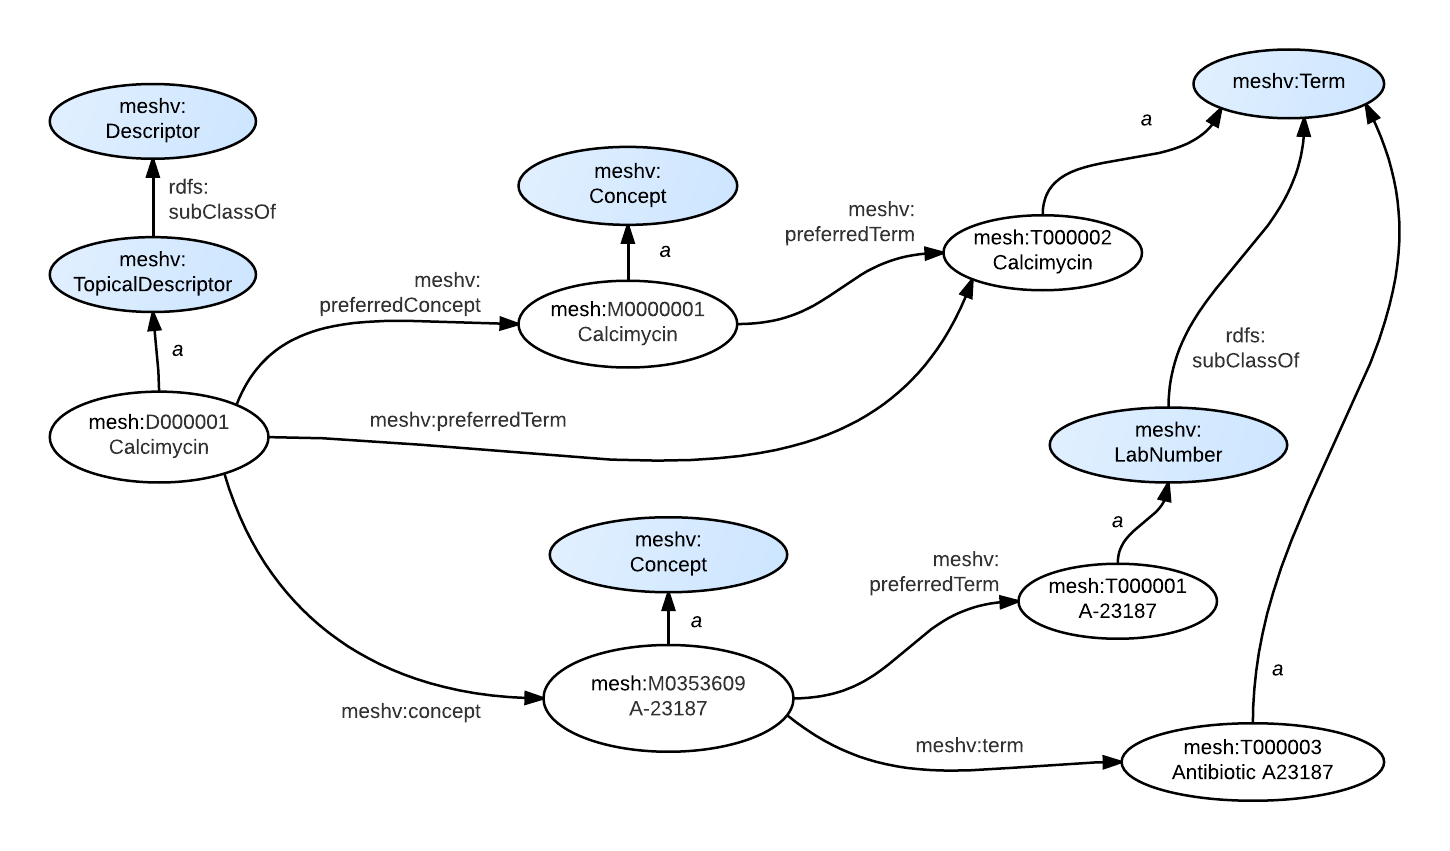
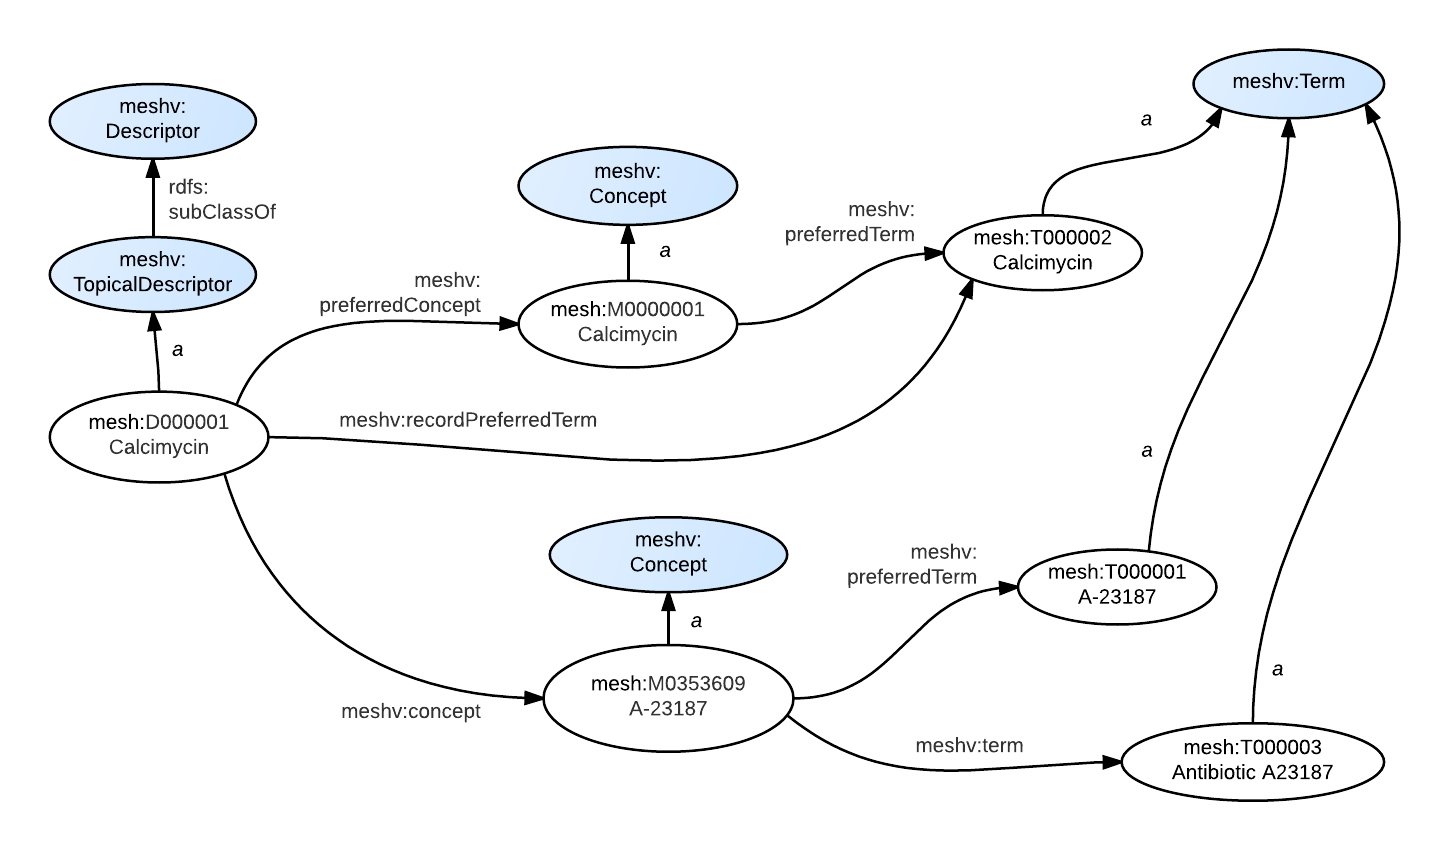
Working on terms - split into two pages

diff --git a/terms2.md b/terms2.md
@@ -15,9 +15,6 @@ Depicted in these graphs:
 
 ![](images/TermModel-2.png){: class="rdf-graph"}
 
-![](images/TermModel.png){: class="rdf-graph"}
-
-
 ### SPARQL
 
 [Note that the following should be possible using the short `CONSTRUCT WHERE` form,
@@ -33,48 +30,109 @@ PREFIX meshv: <http://id.nlm.nih.gov/mesh/vocab#>
 
 construct {
     mesh:D000001 a ?descClass .
+    ?descClass rdfs:subClassOf ?superClass .
 
     mesh:D000001 meshv:preferredConcept ?prefCon .
     ?prefCon a ?prefConClass .
-    mesh:D000001 meshv:preferredTerm ?prefTerm .
-    ?prefTerm a ?prefTermClass .
+
+    mesh:D000001 meshv:recordPreferredTerm ?prefTerm .
     ?prefCon meshv:preferredTerm ?prefTerm .
+    ?prefTerm a ?prefTermClass .
 
     mesh:D000001 meshv:concept ?con .
     ?con a ?conClass .
     ?con meshv:preferredTerm ?conPrefTerm .
     ?conPrefTerm a ?conPrefTermClass .
-    ?conPrefTermClass rdfs:subClassOf ?conPrefTermSuperclass .
 
     ?con meshv:term ?conTerm .
     ?conTerm a ?conTermClass .
-
-    ?conPrefTerm ?cptp ?cpto .
-
-    ?conTerm ?ctp ?cto .
 }
-from <http://id.nlm.nih.gov/mesh2014>
+FROM <http://id.nlm.nih.gov/mesh2014>
 where {
     mesh:D000001 a ?descClass .
+    ?descClass rdfs:subClassOf ?superClass .
 
     mesh:D000001 meshv:preferredConcept ?prefCon .
     ?prefCon a ?prefConClass .
-    mesh:D000001 meshv:preferredTerm ?prefTerm .
-    ?prefTerm a ?prefTermClass .
+
+    mesh:D000001 meshv:recordPreferredTerm ?prefTerm .
     ?prefCon meshv:preferredTerm ?prefTerm .
+    ?prefTerm a ?prefTermClass .
 
     mesh:D000001 meshv:concept ?con .
     ?con a ?conClass .
     ?con meshv:preferredTerm ?conPrefTerm .
     ?conPrefTerm a ?conPrefTermClass .
-    ?conPrefTermClass rdfs:subClassOf ?conPrefTermSuperclass .
 
     ?con meshv:term ?conTerm .
     ?conTerm a ?conTermClass .
+}
+```
 
-    ?conPrefTerm ?cptp ?cpto .
+### MeSH RDF
 
-    ?conTerm ?ctp ?cto .
+
+```
+@prefix rdf:  <http://www.w3.org/1999/02/22-rdf-syntax-ns#> .
+@prefix mesh: <http://id.nlm.nih.gov/mesh/> .
+@prefix meshv:  <http://id.nlm.nih.gov/mesh/vocab#> .
+@prefix rdfs: <http://www.w3.org/2000/01/rdf-schema#> .
+
+mesh:D000001  rdf:type  meshv:TopicalDescriptor ;
+              meshv:preferredConcept  mesh:M0000001 ;
+              meshv:recordPreferredTerm mesh:T000002 ;
+              meshv:concept mesh:M0353609 .
+mesh:M0000001 rdf:type  meshv:Concept ;
+              meshv:preferredTerm mesh:T000002 .
+mesh:M0353609 rdf:type  meshv:Concept ;
+              meshv:term  mesh:T000003 ,
+                          mesh:T000004 ;
+              meshv:preferredTerm mesh:T000001 .
+mesh:T000002  rdf:type  meshv:Term .
+mesh:T000001  rdf:type  meshv:Term .
+mesh:T000003  rdf:type  meshv:Term .
+mesh:T000004  rdf:type  meshv:Term .
+meshv:TopicalDescriptor rdfs:subClassOf meshv:Descriptor .
+```
+
+
+
+
+### RDF Graph Model
+
+![](images/TermModel.png){: class="rdf-graph"}
+
+The following <span class='invoke-sparql'>SPARQL query</span> produces the graphs depicted in the
+figures above:
+
+```sparql
+PREFIX mesh: <http://id.nlm.nih.gov/mesh/>
+PREFIX meshv: <http://id.nlm.nih.gov/mesh/vocab#>
+
+construct {
+    mesh:M0353609 rdfs:label ?conLabel .
+    mesh:M0353609 a ?conClass .
+
+    mesh:M0353609 meshv:preferredTerm ?prefTerm .
+    ?prefTerm a ?prefTermClass .
+    ?prefTerm ?p ?o .
+
+    mesh:M0353609 meshv:preferredTerm ?term .
+    ?term a ?termClass .
+    ?term ?p ?o .
+}
+FROM <http://id.nlm.nih.gov/mesh2014>
+where {
+    mesh:M0353609 rdfs:label ?conLabel .
+    mesh:M0353609 a ?conClass .
+
+    mesh:M0353609 meshv:preferredTerm ?prefTerm .
+    ?prefTerm a ?prefTermClass .
+    ?prefTerm ?p ?o .
+
+    mesh:M0353609 meshv:preferredTerm ?term .
+    ?term a ?termClass .
+    ?term ?p ?o .
 }
 ```
 
@@ -89,39 +147,18 @@ where {
 @prefix xsd:  <http://www.w3.org/2001/XMLSchema#> .
 @prefix skos: <http://www.w3.org/2004/02/skos/core#> .
 
-mesh:D000001    rdf:type  meshv:TopicalDescriptor ;
-                meshv:preferredConcept  mesh:M0000001 ;
-                meshv:concept mesh:M0353609 ;
-                meshv:preferredTerm mesh:T000002 .
-
-mesh:M0000001   rdf:type  meshv:Concept ;
-                meshv:preferredTerm mesh:T000002 .
-
-mesh:M0353609   rdf:type  meshv:Concept ;
-                meshv:term  mesh:T000003 ,
-                            mesh:T000004 ;
-                meshv:preferredTerm mesh:T000001 .
-
-mesh:T000002    rdf:type  meshv:Term .
-
-mesh:T000001    rdf:type  meshv:LabNumber ;
-                meshv:lexicalTag  "LAB" ;
-                rdfs:label  "A-23187" ;
-                skos:prefLabel  "A-23187" ;
-                skos:altLabel "A 23187" .
-                dcterms:identifier  "T000001" ;
-                meshv:dateCreated "1990-03-08"^^xsd:date ;
-                meshv:thesaurusID "NLM (1991)" ;
-                meshv:printFlag "N" ;
-
-mesh:T000003    rdf:type  meshv:Term ;
-                meshv:lexicalTag  "NON" ;
-                rdfs:label  "Antibiotic A23187" ;
-                skos:prefLabel  "Antibiotic A23187" ;
-                skos:altLabel "A23187, Antibiotic" .
-...
-
-meshv:LabNumber rdfs:subClassOf meshv:Term .
+mesh:M0353609 rdf:type  meshv:Concept ;
+              rdfs:label  "A-23187" ;
+              meshv:preferredTerm mesh:T000001 .
+mesh:T000001  rdf:type  meshv:Term ;
+              rdfs:label  "A-23187" .
+mesh:T000001  dcterms:identifier  "T000001" .
+mesh:T000001  meshv:dateCreated "1990-03-08"^^xsd:date ;
+              meshv:lexicalTag  "LAB" ;
+              meshv:printFlag "N" ;
+              meshv:thesaurusID "NLM (1991)" .
+mesh:T000001  skos:prefLabel  "A-23187" ;
+              skos:altLabel   "A 23187" .
 ```
 
 Notes:
